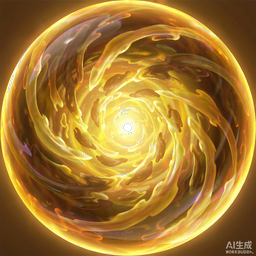
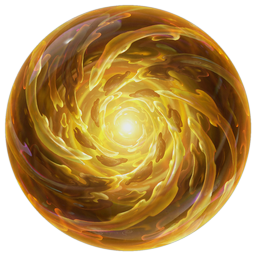
fix(v0.4.5): 能量球 AI 图背景没切掉 —— 改用圆形裁切
用户指出 AI 生成没切掉。诊断：能量球 AI 图的背景是深琥珀色（四角 RGB≈93,63,43）而非白底，之前的『键白』逻辑什么都没去掉 → 输出是整块 256x256 不透明方块连背景贴进游戏。改用圆形裁切：亮度阈值找球体 → 椭圆 mask（羽化 2px 抗锯齿）→ 圆外全透明 → 裁到正方形。复验：energy_big/energy_text 四角 alpha 全 0、包围盒正常。顺带确认鬼气小图标（白底键出）四角也是透明的。

diff --git a/.tools/package.py b/.tools/package.py
@@ -18,7 +18,7 @@ import shutil
 import hashlib
 import zipfile
 
-VERSION = "v0.4.4"
+VERSION = "v0.4.5"
 
 REPO = r"C:\Users\wangx\Documents\Default Project\WanJieRuLin"
 GAME_MODS = r"C:\Program Files (x86)\Steam\steamapps\common\Slay the Spire 2\mods"
